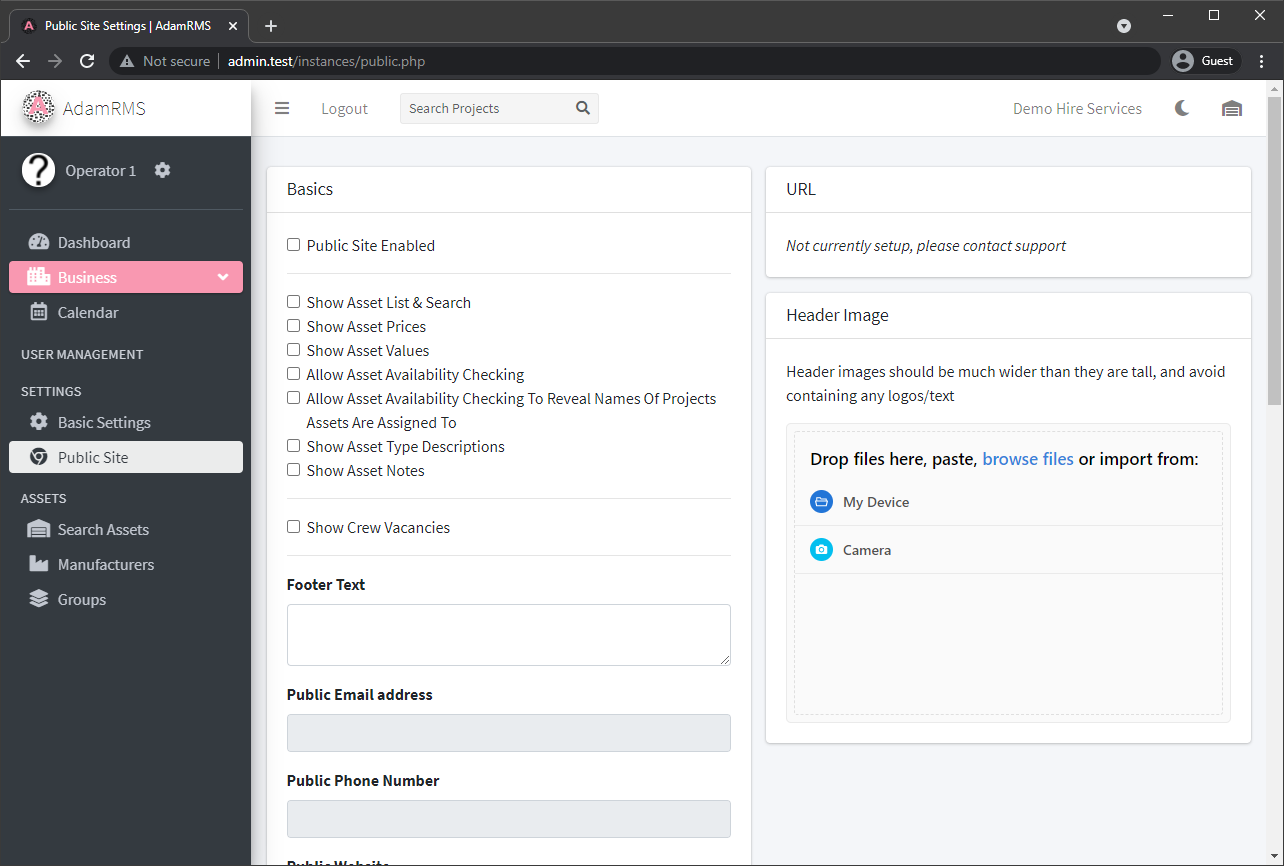
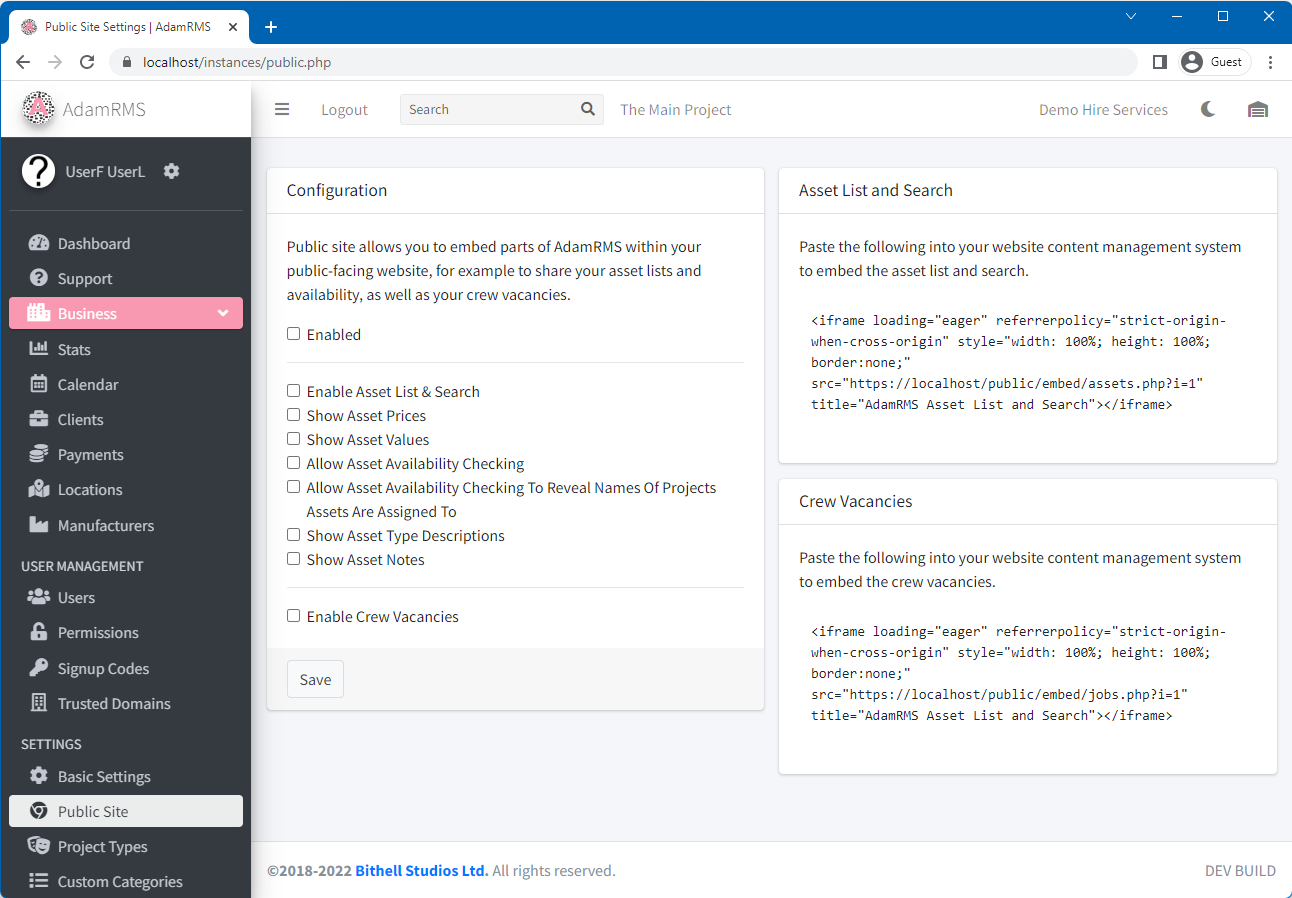
Update public site information

diff --git a/docs/user-guide/business/business-settings.md b/docs/user-guide/business/business-settings.md
@@ -33,7 +33,7 @@ The Basic Settings page includes the following information:
 
 ## Public Site
 ---
-AdamRMS supports a public site for each business, to allow information about business assets to be shared publicly.  
+AdamRMS supports provides a number of widgets to business, to allow information about business assets to be shared publicly.  
 For example, this can be used to show what assets are available for hire.
 
 :::note Public site permissions  
@@ -44,12 +44,12 @@ For example, this can be used to show what assets are available for hire.
 ![Public site settings](/img/tutorial/businesses/settings-publicSite.png)
 *AdamRMS public site settings*
 
-The public site is an optional addon, but requires AdamRMS support to set up. Please get in touch if you would like to use this feature.
+Currently, there are two widgets available:
 
-You can enable different pieces of information to be shared from the Public site settings page. The homepage can also be edited from this page, and supports HTML code editing. You can also provide a header image that is shown on each page.
+- **Asset List and Seearch** - This shows a list of assets that are available for hire.
+- **Crew Vacancies** - This shows a list of crew roles that are currently vacant.
 
-There is also support for files to be hosted on your public site. This can be used for business brochures and venue information.
-
+You can enable different pieces of information to be shared from the Public site settings page for each of these widgets.
 ## Project Types
 ---
 Project types are a way to change what elements of [Projects](./../projects/overview) are available to each project. AdamRMS provides a “Full Project” by default which has all elements enabled.

diff --git a/docs/user-guide/cms/cms-pages.md b/docs/user-guide/cms/cms-pages.md
@@ -25,9 +25,6 @@ From the business settings section, pages can be created. A CMS page has the fol
 - Name
 - Page description
 - A [Font Awesome](https://fontawesome.com/v5.15/icons?d=gallery&p=1&m=free) Icon
-- Public Site Visibility
-  - Accessible on the public site
-  - Shown on navigation menu
 - AdamRMS visibility
   - Limit visibility to a specific Role Group
   - Show on RMS sidebar
